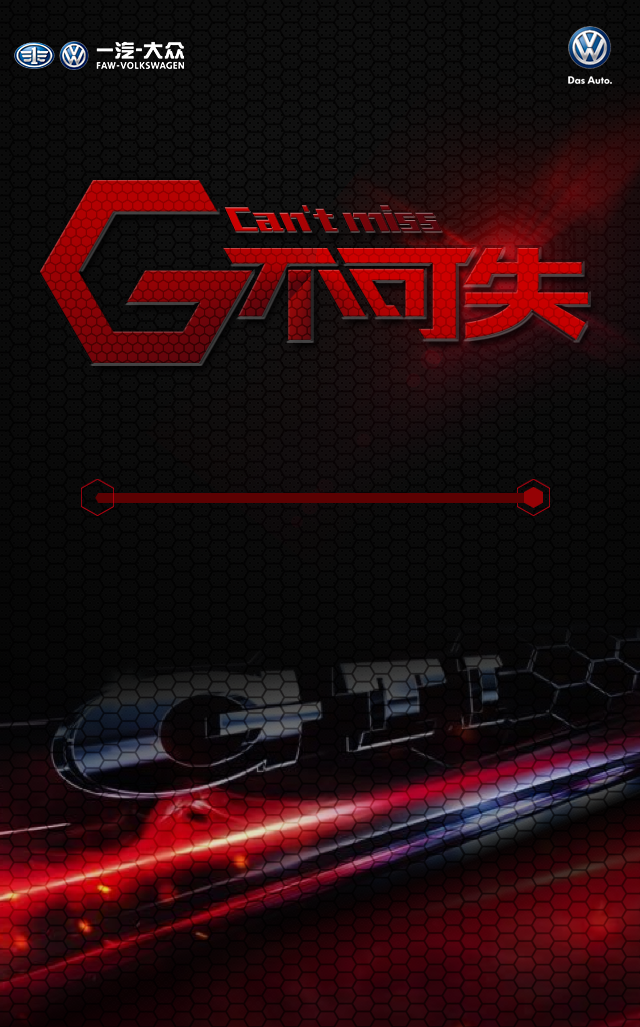
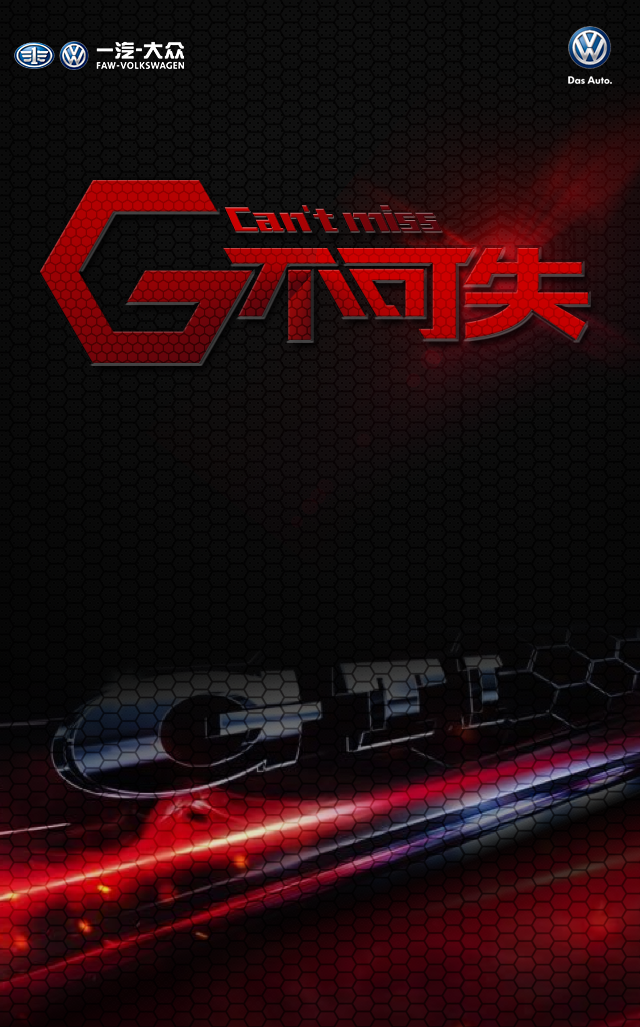
修改一些bug

Changed region(s): [[0.125, 0.4674, 0.875, 0.4985]]

diff --git a/css/main.css b/css/main.css
@@ -39,7 +39,7 @@ body {
 .page1-line{
     position: absolute;
     left: 0;
-    top: -60px;
+    top: -620%;
     width: 0;
     height: 100%;
     background:url(../img/page1-line.png)  no-repeat;
@@ -49,15 +49,24 @@ body {
 .progresstext {
     position: absolute;
     top: -84px;
-    left: 11px;
+    /*left: 11px;*/
     width: 0px;
+}
+.page1-background{
+	width: 100%;
+    height: 30px;
+    background: url(../img/page1-background.png) no-repeat;
+    background-size: 100%;
+    left: 0;
+    top: -710%;
+    position: absolute;
 }
 .page1-hexagon{
     width: 20px;
     height: 20px;
     background: url(../img/page1-hexagon.png) no-repeat;
     right: 0px;
-    top: 17px;
+    top: 1.2em;
     position: absolute;
 }
 .page1-number{
@@ -140,22 +149,22 @@ body {
 }
 .page6-BigBtn{
     margin: 0 auto;
-    width: 47%;
+    width: 45%;
     height: 32%;
     background:url(../img/page6-Btn.png) no-repeat;
     background-size:100%;
 }
 .page7-BigBtn{
     margin: 0 auto;
-    width: 47%;
+    width: 45%;
     height: 32%;
     background:url(../img/page7-Btn.png) no-repeat;
     background-size:100%;
 }
 .page8-BigBtn{
-    width: 45%;
     margin: 0 auto;
-    height: 212px;
+    width: 45%;
+    height: 32%;
     background:url(../img/page8-Btn.png) no-repeat;
     background-size:100%;
 }
@@ -204,7 +213,7 @@ body {
     width: 30%;
     position: absolute;
     height: 60px;
-    top: 55%;
+    top: 60%;
     left: 35%;
     display:none;
 }

diff --git a/index.html b/index.html
@@ -25,6 +25,7 @@
             <!-- 首页 -->
             <div class="swiper-slide page1 swiper-no-swiping">
                 <div class="progress">
+                    <div class="page1-background"></div>
                     <div class="progressbar page1-line"></div>
                     <div class="progresstext progressbar">
                         <span class="current page1-number"></span>
@@ -186,7 +187,6 @@
                 'img/common-title.png',
                 'img/page-title.png',
                 'img/page.png',
-                'img/page1-hexagon.png',
                 'img/page1-line.png',
                 'img/page1.png',
                 'img/page10-button.png',
@@ -218,7 +218,9 @@
                 'img/page7-subtitle.png',
                 'img/page8-Btn.png',
                 'img/page8-content.png',
-                'img/page8-subtitle.png'
+                'img/page8-subtitle.png',
+                'img/page1-hexagon.png',
+                "img/page1-background.png"
             ],
             onStart : function(total){
                 // console.log('start:'+total);
